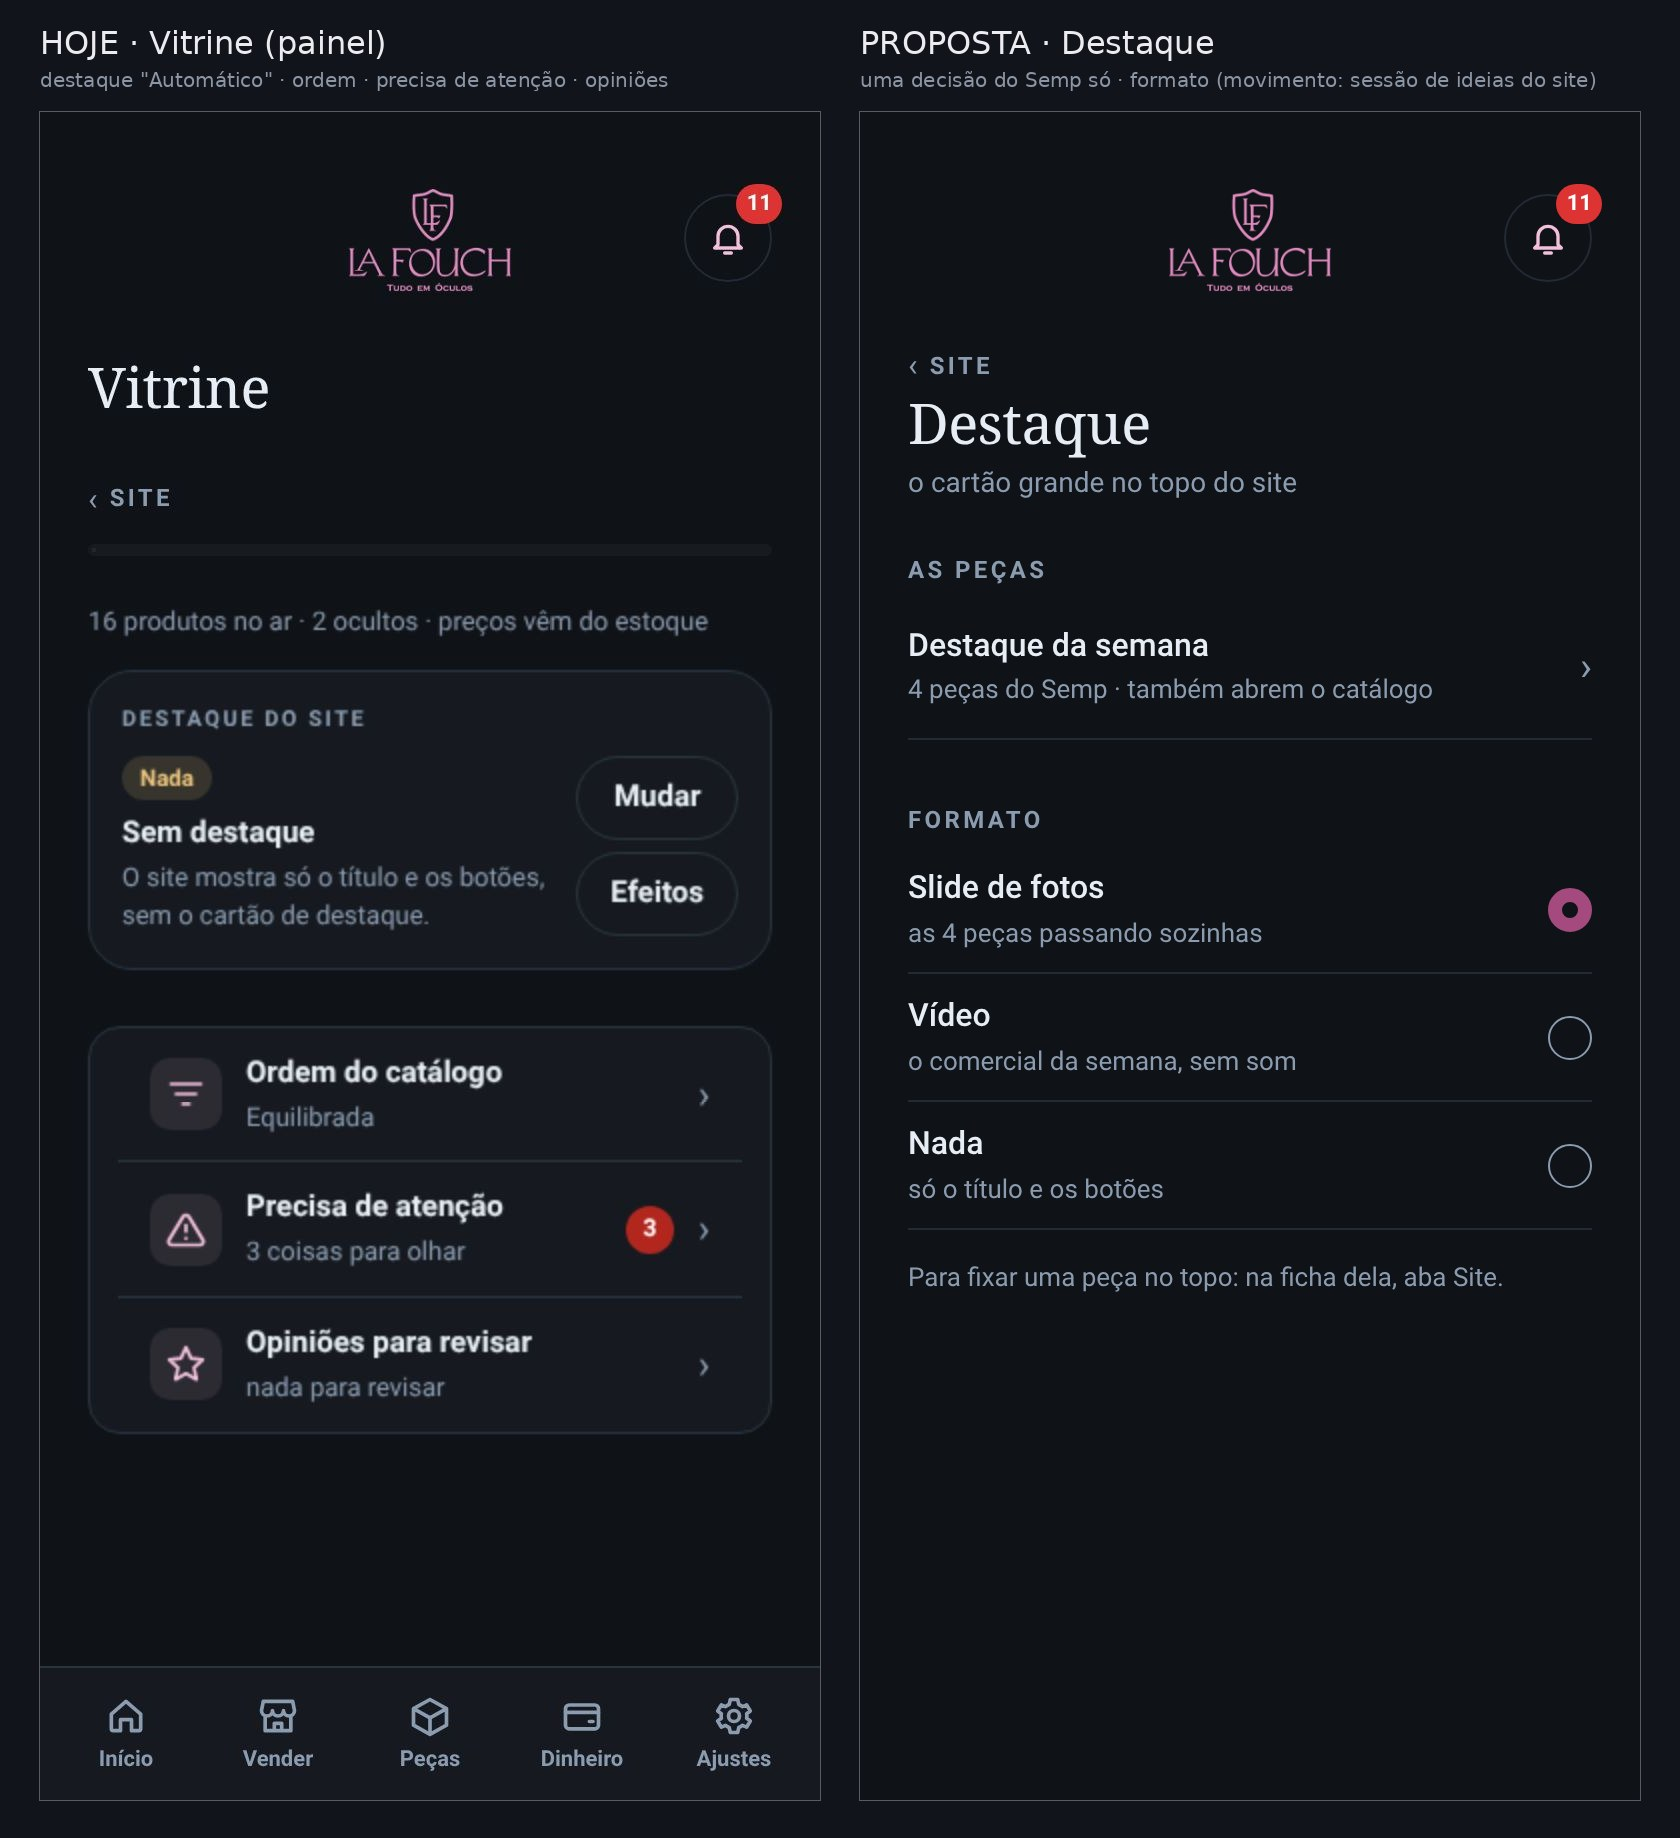
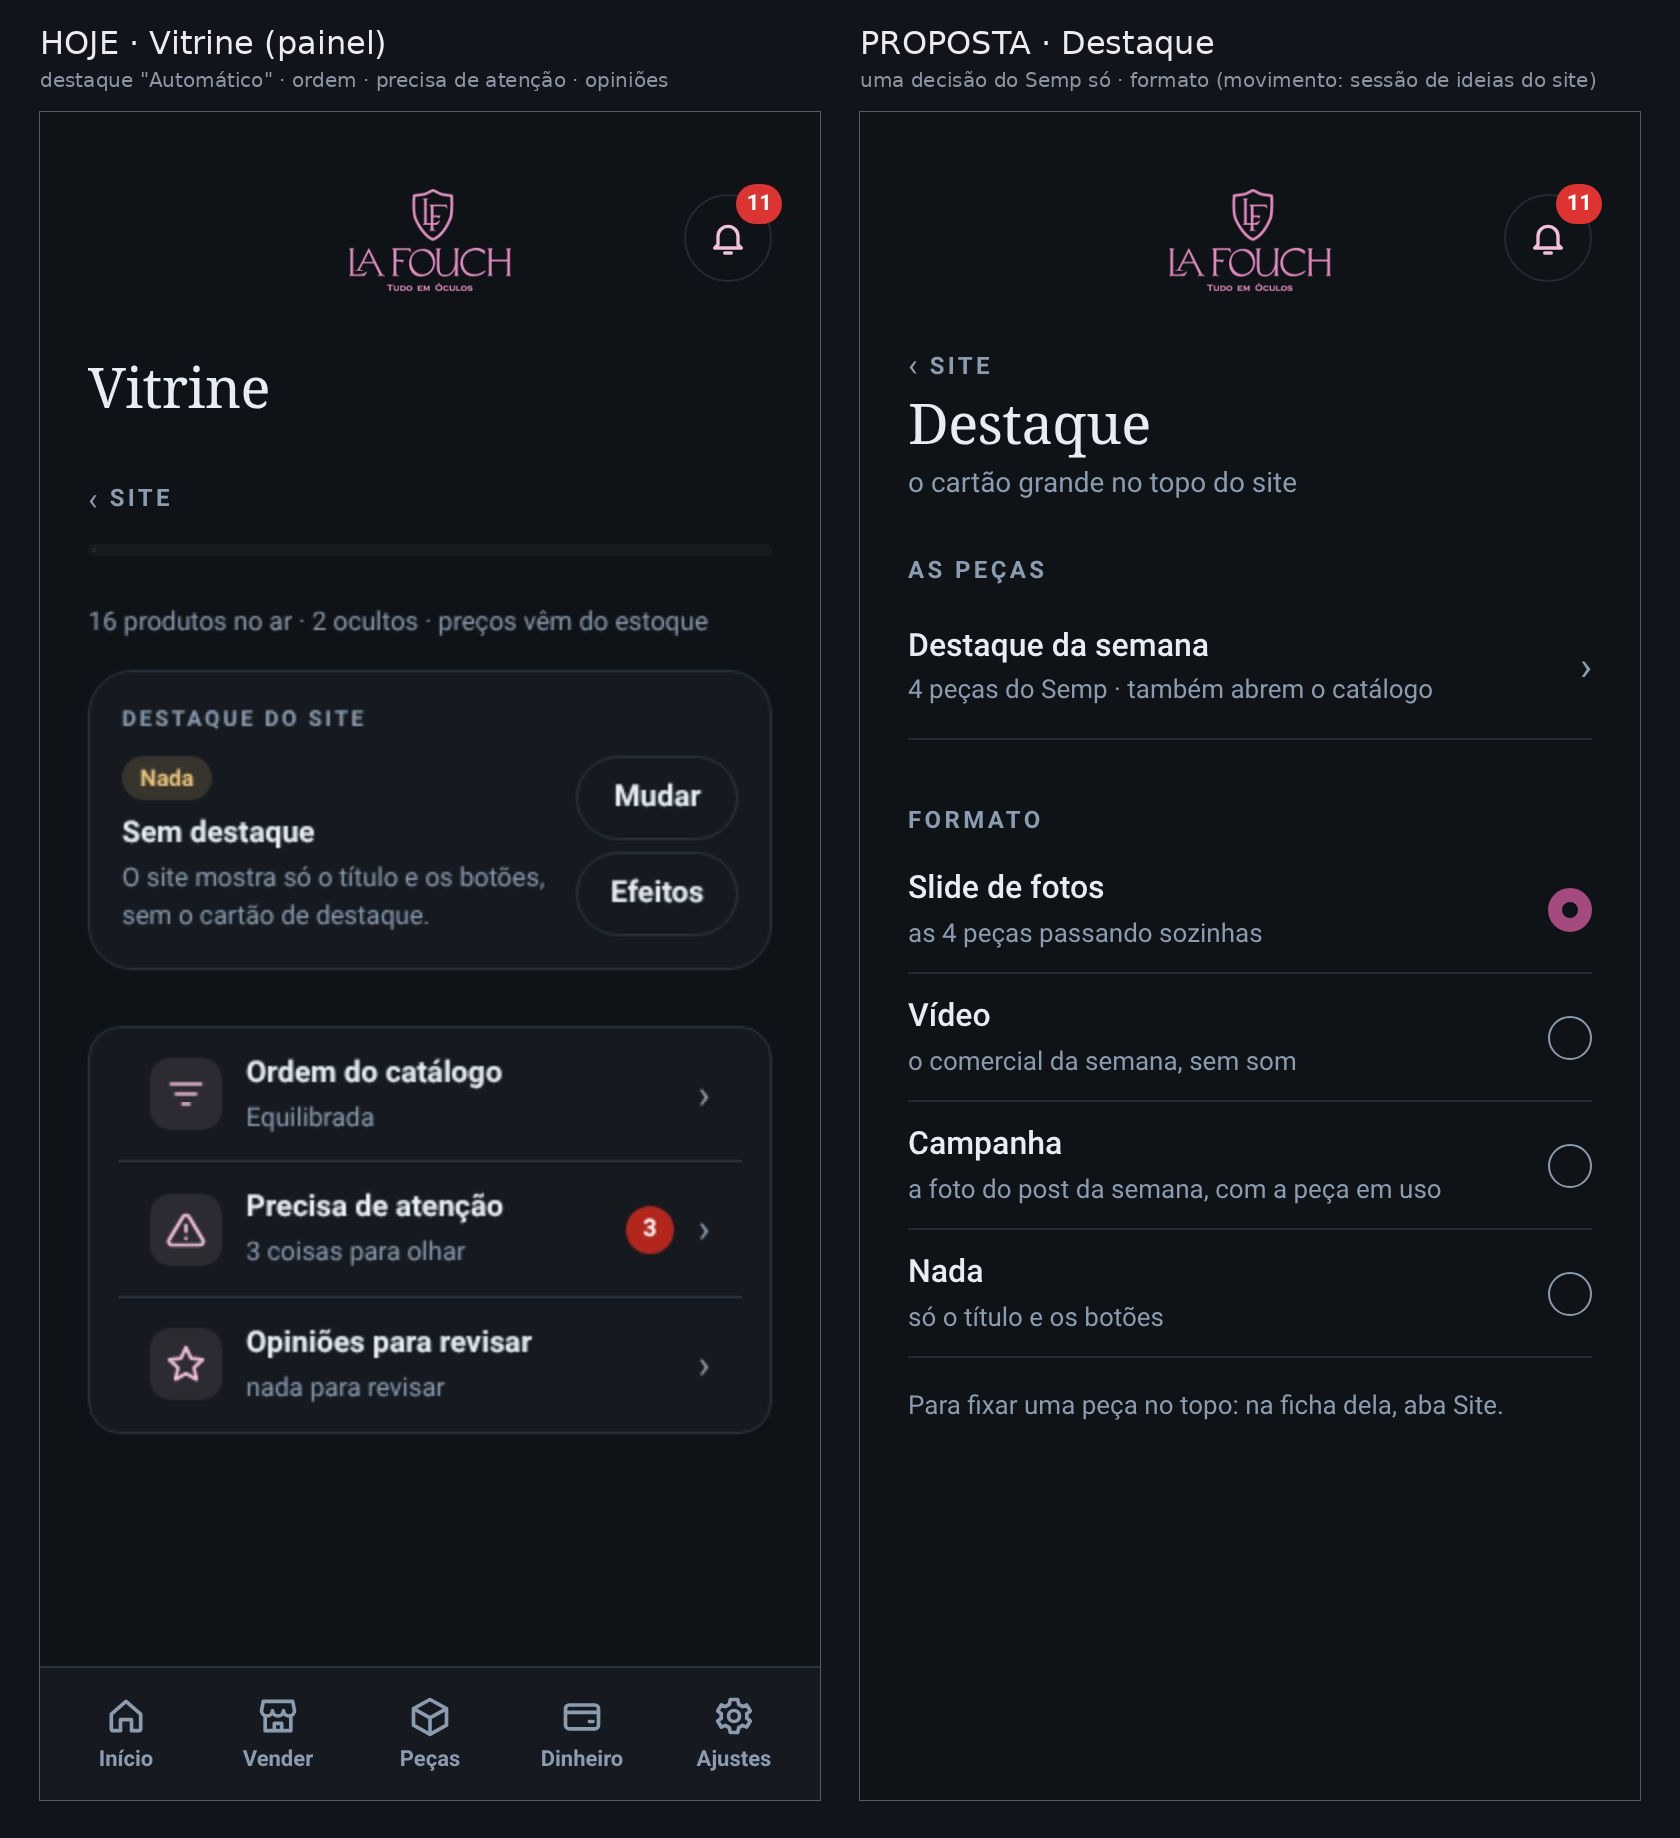
Esboços 58f/58g/58h e 58b v2
Claude-Session: https://claude.ai/code/session_01Vj5GPRt4UBskC3w8v52h7G

Changed region(s): [[0.5262, 0.6823, 0.8976, 0.7753], [0.5262, 0.6202, 0.7119, 0.6513], [0.7738, 0.6202, 0.8048, 0.6513]]

diff --git a/work/s435/painelsite/esboco_58fgh.py b/work/s435/painelsite/esboco_58fgh.py
@@ -1,0 +1,40 @@
+# Esboço 58f/58g/58h (S435, 22/11 06:20) — fecha a família Site (aprovada 58c):
+#  58f Site › Mensagens: só CONTATO (atacado fica em Atacado › Mensagens), abas Novas · Respondidas (2 estados da mesma lista).
+#  58g Site › Avaliações: uma tela só — "Para revisar" em cima, "Publicadas" embaixo (junta "Opiniões para revisar" da Vitrine e
+#      "Avaliações dos clientes" dos Ajustes do painel).
+#  58h Inventário: Modelos sai (58c) → a folha de filtros ganha o bloco "Site": No site · Ocultos (números reais do painel: 16 · 2).
+# Base: app real + aprovados (37b ícones/rótulos cinza, 58a Resumo, 58b, 58c, 52b/52d Inventário, 149s). Dados reais: sem mensagens
+# e sem avaliações hoje → a tela mostra o vazio padrão (ícone + frase + explicação, regra 15).
+exec(open('/home/claude/lafouch/work/s435/painelsite/esboco_58b.py').read().split("def ajustes(pw):")[0])
+src=open('/home/claude/lafouch/work/s435/selo/esboco_49.py').read();a=src.index('def quadro(arq,q):');b=src.index("if __name__=='__main__':");exec(src[a:b])
+STAR='<path d="M12 3l2.6 5.6 6.1.7-4.5 4.2 1.2 6L12 16.6 6.6 19.5l1.2-6L3.3 9.3l6.1-.7z"/>'
+def tela(pw,html,nome):
+  b,pg,w=nova(pw);pagina(pg,pg.evaluate("()=>{"+H+";return "+html+"}"));w(500)
+  pg.add_style_tag(content='#mainnav .mn{color:var(--mute)!important}#mainnav .mn svg{stroke:var(--mute)!important}#mainnav .mn::after,#mainnav .mn i{display:none!important}')
+  confere(pg,nome);x=shot(pg,nome);b.close();return x
+def mensagens(pw):
+  return tela(pw,r"""'<div class="e49">'+TOP('Site','Mensagens','contato dos clientes pelo site',0)+ABAS(['Novas · 0','Respondidas · 0'],0)+
+    VAZIO(IC.msg,'Nenhuma mensagem nova','Quando um cliente escrever pelo formulário de contato do site, aparece aqui. Pedidos de atacado ficam em Atacado › Mensagens.')+'</div>'""",'Mensagens proposta')
+def avaliacoes(pw):
+  return tela(pw,r"""'<div class="e49">'+TOP('Site','Avaliações','opiniões dos clientes no site',0)+
+    LBL('Para revisar · 0')+'<div style="color:var(--mute);font-size:14px;line-height:1.45;margin:8px 0 0">As que parecem suspeitas esperam você aprovar. As normais publicam sozinhas.</div>'+
+    LBL('Publicadas · 0')+VAZIO('"""+STAR+r"""','Nenhuma avaliação ainda','Quando um cliente avaliar uma peça no site, ela aparece aqui.')+'</div>'""",'Avaliações proposta')
+def filtros(pw,prop):
+  b,pg,w=ap.abre(pw,'estoque',True,'celular',base=True);w(800)
+  pg.click('#btnFilt');w(900)
+  if prop:
+    pg.evaluate(r"""()=>{const f=()=>{if(document.querySelector('.e58site'))return;const s=document.getElementById('fSitB');if(!s||!s.querySelector('#fSit .tab'))return;
+      const d=s.cloneNode(true);d.classList.add('e58site');d.removeAttribute('id');d.querySelector('.lbl').textContent='Site';
+      const bs=[...d.querySelectorAll('.tab')];bs.forEach((x,i)=>{if(i>1){x.remove();return}x.classList.remove('on');x.setAttribute('aria-pressed','false');x.innerHTML='<span>'+(i?'Ocultos':'No site')+'</span><em>'+(i?2:16)+'</em>'});
+      s.parentNode.insertBefore(d,s.nextSibling)};f();new MutationObserver(f).observe(document.body,{childList:true,subtree:true})}""");w(600)
+  confere(pg,'Filtros '+('proposta' if prop else 'hoje'))
+  f='/tmp/e58h_%d.png'%prop;pg.screenshot(path=f);x=Image.open(f);x.load();b.close();return x.copy()
+if __name__=='__main__':
+ with sync_playwright() as pw:
+  quadro('esboco_58f_mensagens.jpg',[('HOJE · Mensagens (painel)','Todas · Contato · Atacado (atacado repetido)',Image.open(O+'h3_mensagens.jpg').crop((0,0,780,1688))),
+    ('PROPOSTA · Site › Mensagens','só contato · Novas · Respondidas',mensagens(pw))])
+  quadro('esboco_58g_avaliacoes.jpg',[('HOJE · Opiniões (Vitrine)','as suspeitas numa janela da Vitrine',Image.open(O+'estudo/s_vit_Opiniões.png').crop((0,0,780,1688))),
+    ('HOJE · Avaliações (Ajustes)','as publicadas num botão dos Ajustes',Image.open(O+'estudo/s_cfg_Avaliações.png').crop((0,0,780,1688))),
+    ('PROPOSTA · Site › Avaliações','uma tela: para revisar em cima, publicadas embaixo',avaliacoes(pw))])
+  quadro('esboco_58h_filtro_site.jpg',[('HOJE · filtros do Inventário','tipo e situação',filtros(pw,0)),('PROPOSTA · filtros do Inventário','+ Site: No site · Ocultos (Modelos sai)',filtros(pw,1))])
+ for n,f in REL: print(n,len(f),f[:4])

diff --git a/work/s435/painelsite/esboco_58cd.py b/work/s435/painelsite/esboco_58cd.py
@@ -10,7 +10,7 @@ def indice(pw,prop):
      const set=(e,t,s)=>{e.querySelector('b').textContent=t;const sm=e.querySelector('small');if(sm)sm.textContent=s};
      const by=id=>L.find(e=>e.dataset.id===id);
      set(by('site'),'Resumo','no ar · prévia · o que há de novo');set(by('ped'),'Pedidos','pedidos do site');set(by('msg'),'Mensagens','contato dos clientes');
-     set(by('vit'),'Destaque','formato e efeitos · peças do Semp');by('vit').querySelector('svg').innerHTML='<rect x="3" y="4" width="18" height="16" rx="2"/><circle cx="9" cy="10" r="1.6"/><path d="M21 16l-5-5-8 9"/>';
+     set(by('vit'),'Destaque','formato · peças do Semp');by('vit').querySelector('svg').innerHTML='<rect x="3" y="4" width="18" height="16" rx="2"/><circle cx="9" cy="10" r="1.6"/><path d="M21 16l-5-5-8 9"/>';
      const av=by('prod');set(av,'Avaliações','para revisar e as últimas');av.querySelector('svg').innerHTML='<path d="M12 3l2.6 5.6 6.1.7-4.5 4.2 1.2 6L12 16.6 6.6 19.5l1.2-6L3.3 9.3l6.1-.7z"/>';
      const aj=av.cloneNode(true);set(aj,'Ajustes do site','frete, estojo, inscritos');aj.querySelector('svg').innerHTML='<circle cx="12" cy="12" r="3"/><path d="M19.4 15a1.7 1.7 0 0 0 .3 1.8l.1.1a2 2 0 1 1-2.8 2.8l-.1-.1a1.7 1.7 0 0 0-1.8-.3 1.7 1.7 0 0 0-1 1.5V21a2 2 0 1 1-4 0v-.1a1.7 1.7 0 0 0-1.1-1.5 1.7 1.7 0 0 0-1.8.3l-.1.1a2 2 0 1 1-2.8-2.8l.1-.1a1.7 1.7 0 0 0 .3-1.8 1.7 1.7 0 0 0-1.5-1H3a2 2 0 1 1 0-4h.1a1.7 1.7 0 0 0 1.5-1.1 1.7 1.7 0 0 0-.3-1.8l-.1-.1a2 2 0 1 1 2.8-2.8l.1.1a1.7 1.7 0 0 0 1.8.3H9a1.7 1.7 0 0 0 1-1.5V3a2 2 0 1 1 4 0v.1a1.7 1.7 0 0 0 1 1.5 1.7 1.7 0 0 0 1.8-.3l.1-.1a2 2 0 1 1 2.8 2.8l-.1.1a1.7 1.7 0 0 0-.3 1.8V9a1.7 1.7 0 0 0 1.5 1H21a2 2 0 1 1 0 4h-.1a1.7 1.7 0 0 0-1.5 1z"/>';av.after(aj);
      [...v.querySelectorAll('*')].filter(x=>x.children.length==0&&/Pedidos, mensagens, vitrine e modelos/.test(x.textContent)).forEach(x=>x.textContent='O site da loja')};f();new MutationObserver(f).observe(document.getElementById('v-grp'),{childList:true,subtree:true})}""");w(500)
@@ -25,7 +25,7 @@ def destaque(pw):
    const SW=(t,s,on)=>'<div style="display:flex;align-items:center;gap:16px;min-height:64px;border-bottom:1px solid var(--line2)"><span style="flex:1;min-width:0"><b style="display:block;font-size:16px;font-weight:500">'+t+'</b><small style="font-size:13px;color:var(--mute)">'+s+'</small></span><span class="sw" style="pointer-events:none;flex:none"><input type="checkbox" '+(on?'checked':'')+' tabindex="-1"><i></i></span></div>';
    return '<div class="e49">'+TOP('Site','Destaque','o cartão grande no topo do site',0)+
     T('As peças',1)+'<div style="display:flex;align-items:center;gap:16px;min-height:72px;border-bottom:1px solid var(--line2)"><span style="flex:1;min-width:0"><b style="display:block;font-size:16px;font-weight:500">Destaque da semana</b><small style="font-size:13px;color:var(--mute)">4 peças do Semp · também abrem o catálogo</small></span><i style="font-style:normal;color:var(--mute);font-size:20px">›</i></div>'+
-    T('Formato')+RAD('Slide de fotos','as 4 peças passando sozinhas',1)+RAD('Vídeo','o comercial da semana, sem som',0)+RAD('Nada','só o título e os botões',0)+
+    T('Formato')+RAD('Slide de fotos','as 4 peças passando sozinhas',1)+RAD('Vídeo','o comercial da semana, sem som',0)+RAD('Campanha','a foto do post da semana, com a peça em uso',0)+RAD('Nada','só o título e os botões',0)+
     '<div style="color:var(--mute);font-size:13px;margin:16px 0 32px">Para fixar uma peça no topo: na ficha dela, aba Site.</div></div>'}""",I)
   pagina(pg,html);w(500);pg.add_style_tag(content='#mainnav,#nvBar{display:none!important}')
   confere(pg,'Destaque proposta');pg.screenshot(path='/tmp/d58.png',full_page=True);x=Image.open('/tmp/d58.png').copy();b.close();return x

diff --git a/work/s435/painelsite/esboco_58b.py b/work/s435/painelsite/esboco_58b.py
@@ -1,4 +1,4 @@
-# Esboço 58b (S435, 22/11 01:40) — Site › Ajustes do site como tela do app (estrutura aprovada 01:23).
+# Esboço 58b v2 (S435, 22/11 06:30: Avaliações virou tela própria — 58c; Segurança e Conta eram do painel web, que sai — 06:13). Antes: (S435, 22/11 01:40) — Site › Ajustes do site como tela do app (estrutura aprovada 01:23).
 # Sai: "O site está no ar" (vira o botão do Resumo, 58a) e "Se você desligar" (vai para a janela do botão). Ajustes › Site do app sai (fica só aqui).
 # Base: Ajustes organizado (aprovado 20/11: blocos com título, ícone por linha, valor à direita) + rótulos/ícones cinza (21/11 17:54) + 149s.
 exec(open('/home/claude/lafouch/work/s435/selo/esboco_49.py').read().split("def atacado(pw):")[0].replace("O='/home/claude/lafouch/work/s435/selo/'","O='/home/claude/lafouch/work/s435/painelsite/'"))
@@ -19,8 +19,8 @@ def ajustes(pw):
    const T=(t,first)=>'<div style="font-size:12px;font-weight:700;letter-spacing:.14em;text-transform:uppercase;color:var(--mute);margin:'+(first?'24px':'32px')+' 0 4px">'+t+'</div>';
    return '<div class="e49">'+TOP('Site','Ajustes do site','lafouch.com',0)+
     T('Entrega',1)+R('fr','Frete e transportadoras','por cidade')+R('ac','Estojo e flanela','vão junto')+
-    T('Clientes')+R('av','Avaliações','para revisar','›')+R('nw','Inscritos em novidades','e-mail','›')+
-    T('Arquivos e acesso')+R('fo','Fotos e vídeos','do destaque')+R('sg','Segurança','2 etapas')+R('co','Conta','')+'</div>'}""")
+    T('Clientes')+R('nw','Inscritos em novidades','e-mail','›')+
+    T('Arquivos')+R('fo','Fotos e vídeos','do destaque')+'</div>'}""")
   pagina(pg,html);w(500);confere(pg,'Ajustes do site proposta')
   pg.add_style_tag(content='#mainnav .mn{color:var(--mute)!important}#mainnav .mn svg{stroke:var(--mute)!important}#mainnav .mn::after,#mainnav .mn i{display:none!important}')
   x=shot(pg,'aj58');b.close();return x

diff --git a/docs/FALTA-APROVAR-15-11.md b/docs/FALTA-APROVAR-15-11.md
@@ -1079,3 +1079,4 @@ Não são esquecimento (estavam na lista, parados de propósito ou por ordem do 
 - 22/11 06:02 · DONO: 'aprovado' → APROVADOS 58c (família Site sem repetir) e 58d (Destaque: peças = Destaque da semana do Semp, que também abrem o catálogo · Formato Slide · Vídeo · Nada). Pediu mais uma possibilidade de formato além de slide e vídeo, baseada no estudo de luxo — proposta em conversa (Campanha / Peça girando). Painel web lafouch.com/admin: ainda sem resposta.
 - 22/11 06:04 · DONO: formato extra do destaque = CAMPANHA (foto editorial com a peça em uso, do post da semana do Semp; título serifado, 1 botão, preço discreto). 'Peça girando' recusada (não soa luxuosa). Visual no site → IDEIAS (recado); opção no painel fica no 58d. Pediu elaborar por que o painel web sairia.
 - 22/11 06:13 · DONO APROVOU: o painel web (lafouch.com/admin) SAI, mas só DEPOIS que as telas do Site estiverem totalmente no app (celular e PC), publicadas e testadas. Junto saem o login, a segurança e a conta próprios do painel. Recado a SITE e NUVEM para planejarem (sem fazer agora).
+- 22/11 06:35 · ESBOCO: parte 1 do que falta — enviados 58f (Site › Mensagens: só contato, Novas · Respondidas; atacado fica no Atacado), 58g (Site › Avaliações: Para revisar em cima, Publicadas embaixo; junta Opiniões da Vitrine e Avaliações dos Ajustes), 58h (filtro do Inventário ganha 'Site: No site 16 · Ocultos 2'; Modelos sai). 58b v2 pela regra 7 (sem Avaliações, Segurança e Conta). 58d ganhou 'Campanha' no Formato. Comparador: só achados que já existem hoje (área de toque do ‹ no título; 'Intermediário' cortado no filtro de Faixa — bug atual do app).

diff --git a/docs/MEMORIA-PROJETO.md b/docs/MEMORIA-PROJETO.md
@@ -3583,3 +3583,4 @@ Testar TUDO, com muita calma, antes de dizer que está pronto ou de publicar: ca
 - 22/11 06:02 · DONO: 'aprovado' → APROVADOS 58c (família Site sem repetir) e 58d (Destaque: peças = Destaque da semana do Semp, que também abrem o catálogo · Formato Slide · Vídeo · Nada). Pediu mais uma possibilidade de formato além de slide e vídeo, baseada no estudo de luxo — proposta em conversa (Campanha / Peça girando). Painel web lafouch.com/admin: ainda sem resposta.
 - 22/11 06:04 · DONO: formato extra do destaque = CAMPANHA (foto editorial com a peça em uso, do post da semana do Semp; título serifado, 1 botão, preço discreto). 'Peça girando' recusada (não soa luxuosa). Visual no site → IDEIAS (recado); opção no painel fica no 58d. Pediu elaborar por que o painel web sairia.
 - 22/11 06:13 · DONO APROVOU: o painel web (lafouch.com/admin) SAI, mas só DEPOIS que as telas do Site estiverem totalmente no app (celular e PC), publicadas e testadas. Junto saem o login, a segurança e a conta próprios do painel. Recado a SITE e NUVEM para planejarem (sem fazer agora).
+- 22/11 06:35 · ESBOCO: parte 1 do que falta — enviados 58f (Site › Mensagens: só contato, Novas · Respondidas; atacado fica no Atacado), 58g (Site › Avaliações: Para revisar em cima, Publicadas embaixo; junta Opiniões da Vitrine e Avaliações dos Ajustes), 58h (filtro do Inventário ganha 'Site: No site 16 · Ocultos 2'; Modelos sai). 58b v2 pela regra 7 (sem Avaliações, Segurança e Conta). 58d ganhou 'Campanha' no Formato. Comparador: só achados que já existem hoje (área de toque do ‹ no título; 'Intermediário' cortado no filtro de Faixa — bug atual do app).

diff --git a/work/obsoletos/s435-superados-22-11/LEIA.md b/work/obsoletos/s435-superados-22-11/LEIA.md
@@ -1,0 +1,2 @@
+# Superados em 22/11 (S435)
+- esboco_58b_v1.jpg → 58b v2 (Avaliações virou tela própria no 58c; Segurança e Conta eram do painel web, que sai — dono 06:13).
